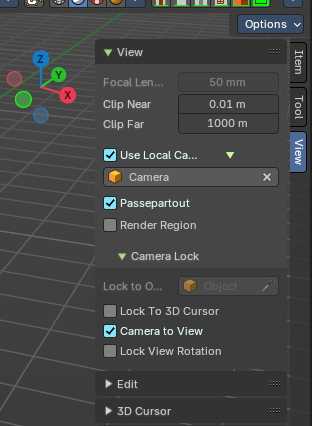
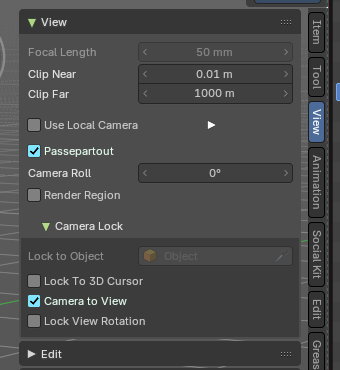
Docs 2.0: View Roll, Camera Roll, Reset Roll and Flip View
- Sidebar > View: View Roll and Camera Roll, new panel pictures, Ctrl+Alt+MMB tip
- View > Navigation: Reset Roll and Flip View; roll in camera view; Zoom Border label
- Align View Buttons: optional Reset Roll and Flip View buttons
- version 5.3

Claude-Session: https://claude.ai/code/session_01TZ3cKPLjkkQu7A5AvvLPrB

diff --git a/docs2/content/editors/3d-viewport/all-modes/sidebar.md b/docs2/content/editors/3d-viewport/all-modes/sidebar.md
@@ -7,7 +7,7 @@ path:
   - "3D Viewport"
   - "All Modes"
   - "Sidebar"
-version: "5.1"
+version: "5.3"
 status: draft
 icon: sidebar
 summary: "The sidebar tabs and panels of All Modes."
@@ -619,6 +619,18 @@ Normally when you render an image it gets rendered from the currently active cam
 ![Passepartout](/docs2/images/editors/3d-viewport/sidebar/view-tab/passepartout.png)
 
 Toggles and shows all camera passepartout overlays.
+
+### View Roll
+
+![View Roll](/docs2/images/editors/3d-viewport/sidebar/view-tab/view-roll.png)
+
+Shows and sets how much the view is rolled, tilted sideways against the horizon. 0° is level. Drag or type a value to roll the view; hover it and press **Backspace**, or right-click > **Reset to Default Value**, to level the view again. The value follows along while you roll with the roll ring of the navigation gizmo or the hotkey. View Roll shows outside the camera view and does nothing when view rotation is locked.
+
+### Camera Roll
+
+Shown instead of View Roll while you look through the camera. It rolls the camera view without moving the camera object, which is handy when you draw on the camera with Grease Pencil and want to turn the canvas. Press **Backspace** or right-click > **Reset to Default Value** to set it back to 0°.
+
+> **Tip:** **Ctrl + Alt + middle mouse drag** rolls the view in every view, including the camera view (Cmd + Alt + middle mouse on macOS).
 
 ### Use Render Region
 

diff --git a/docs2/content/editors/3d-viewport/all-modes/header/navigation-menu.md b/docs2/content/editors/3d-viewport/all-modes/header/navigation-menu.md
@@ -8,7 +8,7 @@ path:
   - "All Modes"
   - "Header"
   - "Navigation Menu"
-version: "5.1"
+version: "5.3"
 status: draft
 icon: topbar
 summary: "The Navigation menu provides you with all tools around viewport navigation."
@@ -322,6 +322,16 @@ Rolls the viewport counter clockwise.
 
 Rolls the viewport clockwise.
 
+Roll Left and Roll Right also work in the camera view.
+
+##### Reset Roll
+
+Sets the roll of the view back to 0°, so the view is level again. In a camera view that is locked to the view (**Lock Camera to View**) it is greyed out, because it can't change anything there; unlock the camera first.
+
+##### Flip View
+
+Flips the camera view to look along the other side. Only available while you look through the camera.
+
 ##### Pan Down
 
 Pans the viewpoint downwards. The scene moves up.
@@ -338,7 +348,7 @@ Pans the viewpoint to the right. The scene moves to the left.
 
 Pans the viewpoint to the left. The scene moves to the right.
 
-##### Zoom Region
+##### Zoom Border
 
 Draws a rectangle and zooms then to fit the size of this rectangle. Zooming in is done with drawing the rectangle with left mouse button. Zooming out is done with drawing the rectangle with middle mouse button.
 

diff --git a/docs2/content/editors/3d-viewport/all-modes/header/header-tools-and-options.md b/docs2/content/editors/3d-viewport/all-modes/header/header-tools-and-options.md
@@ -8,7 +8,7 @@ path:
   - "All Modes"
   - "Header"
   - "Header tools and Options"
-version: "5.1"
+version: "5.3"
 status: draft
 icon: topbar
 summary: "The header in the 3D view contains various menus and tools."
@@ -3003,6 +3003,10 @@ This addon can be turned off in the Preferences.
 The lock button at the end of the row turns **Lock Object Modes** on and off. While it's on, you can only select objects that are in the same mode as the active one. That stops you from jumping out of Edit Mode or Sculpt Mode by clicking another object by accident.
 
 The button is hidden by default. To show it, click the small arrow at the end of the Align View Buttons row and tick **Lock Object Mode** under **Navigation**. The same setting is also in the sidebar, under **View › Edit**.
+
+## Reset Roll and Flip View buttons
+
+Two optional buttons from **View > Navigation**: **Reset Roll** levels the view again, and **Flip View** flips the camera view. Both are off by default. To show them, click the small arrow at the end of the Align View Buttons row and tick them under **Navigation**. Flip View only shows while you look through the camera.
 
 # Grease Pencil - all modes - Layer Panel
 
